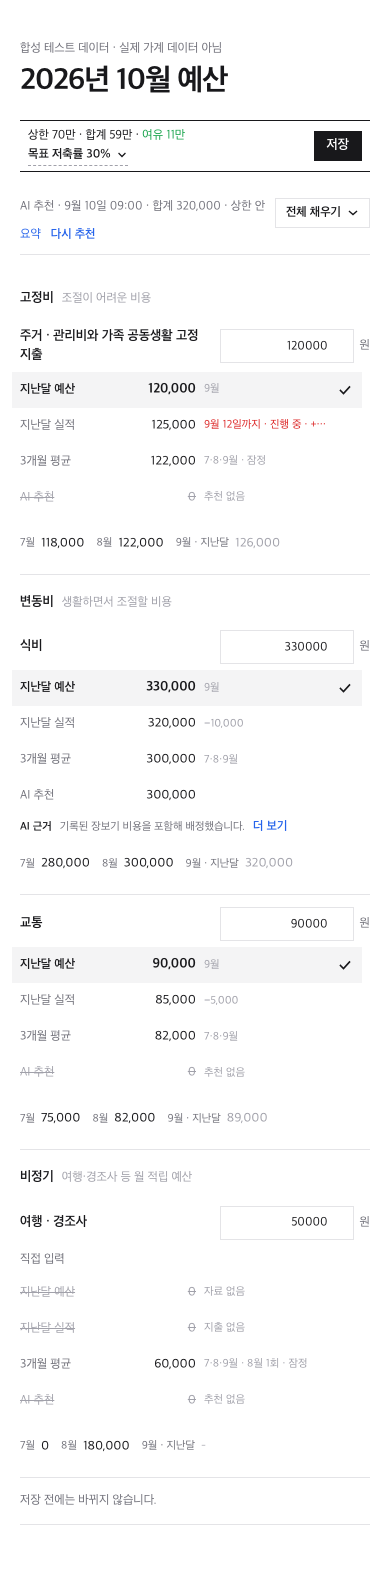
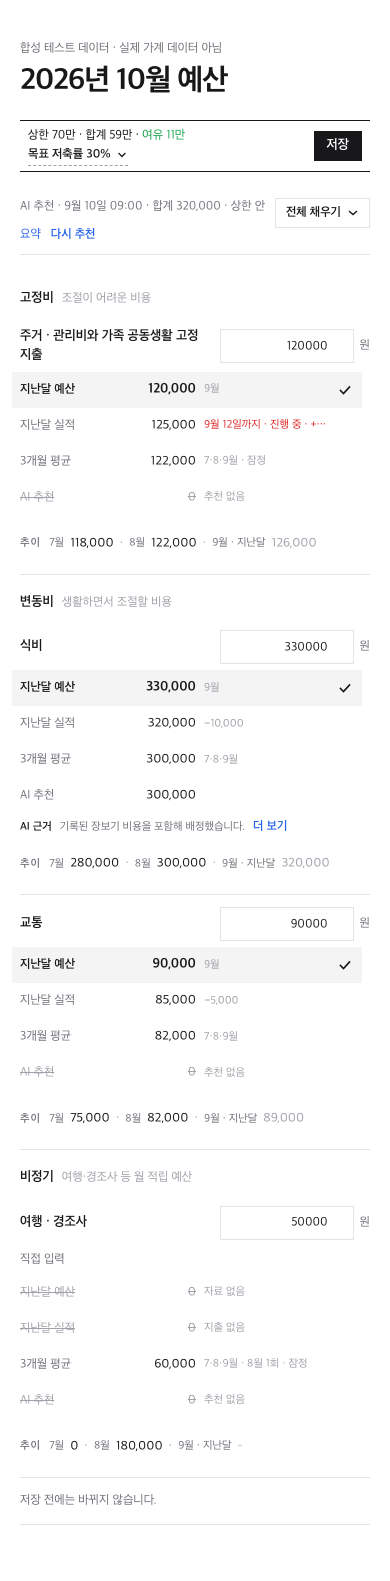
docs(budgets): ratify the stacked trend column
Section 3.1 sketched three 110px cells side by side under the 추이
heading. The implementation stacks the months vertically, which reads
better against the 참고 column's 32px rhythm, and the spec owner has
ratified that. The section now describes the stack, and the sub-rule
about keeping right alignment when fewer than three cells exist is
deleted rather than left describing something the code deliberately does
not do.

Section 6 gains the popover shell module and records that the statistics
screen kept its own request logic, which is the fallback that section
already sanctioned.

The synthetic screenshots are regenerated: they show the month label now
sitting beside its amount on desktop and the 추이 label with its middle
dots on the 390px line.

diff --git a/docs/superpowers/specs/2026-09-14-budget-trend-column-design.md b/docs/superpowers/specs/2026-09-14-budget-trend-column-design.md
@@ -36,23 +36,26 @@
 
 표 열이 셋에서 넷이 된다. 그리드 `200px 200px minmax(0, 1fr) 360px`, 간격 16px. 추이 열은 오른쪽에 고정 폭으로 붙고 참고 열이 남는 폭을 갖는다.
 
+추이 열 안에서 달은 **세로로 쌓는다.** 한 달이 한 줄이고, 줄마다 월 라벨과 금액이 참고 줄과 같은 트랙에 선다.
+
 ```
 항목    예산 (원)   참고                                 추이
-                                                        6월        7월        8월 · 지난달
-식비    600,000     지난달 예산   1,100,000   9월        1,298,653  1,253,700  1,257,831
-        AI 추천…    지난달 실적     612,400   −487,600
+                                                        6월           1,298,653
+식비    600,000     지난달 예산   1,100,000   9월        7월           1,253,700
+        AI 추천…    지난달 실적     612,400   −487,600   8월 · 지난달  1,257,831
                     3개월 평균      656,262   6·7·8월
                     AI 추천         650,000
                     AI 근거 …
 ```
 
 - **열 머리** `추이`. 아래 faint 캡션 `최근 3개월 실제 지출 · 칸에 올리면 거래 목록`.
-- **칸 머리** 월 이름. 그 달이 `previousActual.month`와 같으면 `8월 · 지난달`. 마감 전이라는 사실은 칸 머리에 쓰지 않고 아래 칸의 faint 색으로만 말한다. 칸 폭이 110px이라 꼬리표를 둘 붙이면 잘린다.
-- **칸** 그 달 그 대분류의 실제 지출, 우측 정렬, `tabular-nums`. 높이 32px로 참고 줄과 같은 리듬.
+- **칸 머리** 월 이름. 그 달이 `previousActual.month`와 같으면 `8월 · 지난달`. 마감 전이라는 사실은 칸 머리에 쓰지 않고 금액의 faint 색으로만 말한다. 라벨 트랙이 110px이라 꼬리표를 둘 붙이면 잘린다.
+- **칸** 라벨 110px, 금액 110px 우측 정렬에 `tabular-nums`, 나머지는 빈 트랙이다. `.plan-reference__option`과 같은 트랙이라 두 열의 라벨과 숫자가 같은 자리에서 만난다. 높이 32px로 참고 줄과 같은 리듬.
 - **칸 색** 마감된 달은 잉크, 마감 전인 달은 faint. 통계의 `isProvisional` 규칙과 같다.
 - **빈 값** 거래 기록이 없는 달은 애초에 `average3.months`에서 빠지므로 칸 자체가 없다. 그 대분류에만 지출이 없는 달은 마감 월이면 `0`, 마감 전이면 `–`.
 - 칸이 하나도 없으면(새 가구) 추이 열에 `기록 없음`을 faint로 한 번만 쓴다.
-- 칸 개수가 3보다 적으면 왼쪽을 비우고 오른쪽 정렬을 유지한다. 칸 자리를 `—`로 채우지 않는다.
+
+> 2026-09-14 수정. 처음 안은 110px 칸 셋을 가로로 놓는 것이었다. 구현된 세로 쌓기가 참고 열의 32px 리듬에 더 맞아 그대로 두기로 했다. 그래서 "칸 개수가 3보다 적으면 왼쪽을 비우고 오른쪽 정렬을 유지한다"는 규칙은 뜻이 없어져 지웠다.
 
 칸은 `<button type="button">`이다. 선택 상태가 없고 `aria-pressed`도 없다. `aria-label`은 `식비 6월 1,298,653원, 거래 목록 보기`.
 
@@ -154,11 +157,12 @@ type BudgetPlanRow = {
 | 파일 | 역할 |
 |---|---|
 | `src/features/analytics/cell-transactions.ts` (새) | `useCellTransactions()` 훅. 요청·캐시·취소·지연·409를 담당한다. 밖으로는 `open(params, delay)`, `close()`, `state`만 준다 |
-| `src/features/analytics/cell-transaction-tooltip.tsx` (새) | 팝오버 본문. `{ major, sub, month, data, ledgerHref }`를 받아 어두운 카드를 그린다. 위치 잡기와 포털은 호출자가 한다 |
-| `src/features/analytics/stats-monthly-section.tsx` (수정) | 위 둘을 쓰도록 바꾼다. 앵커·포커스 스크롤·요약 툴팁·합계 제외는 이 파일에 남는다 |
+| `src/features/analytics/cell-transaction-tooltip.tsx` (새) | 팝오버 본문. `{ major, sub, month, data, ledgerHref }`를 받아 어두운 카드를 그린다 |
+| `src/features/analytics/cell-transaction-popover.tsx` (새) | 팝오버 껍데기. 포털, 재보기 뒤 배치(아래로 넘치면 앵커 위로 뒤집기), 숨김 유예와 히트 테스트, 스크롤·리사이즈 해제, `aria-describedby`에 쓸 `id`를 맡는다. 표 하나가 요청 훅 하나와 껍데기 하나를 같이 쓰도록 `CellPopoverContext`도 여기 있다 |
+| `src/features/analytics/stats-monthly-section.tsx` | 본문만 공용을 쓴다. 요청·앵커·포커스 스크롤·요약 툴팁·합계 제외는 아래 대안대로 이 파일에 남았다 |
 | `src/features/budgets/plan-trend.tsx` (새) | 추이 칸들과 팝오버. 데스크톱 열과 모바일 한 줄을 같은 컴포넌트가 그린다 |
 | `src/features/budgets/plan-item.tsx` (수정) | 추이를 붙인다 |
-| `src/features/budgets/plan-list.tsx` (수정) | 열 머리와 그리드 폭 |
+| `src/features/budgets/plan-list.tsx` (수정) | 열 머리와 그리드 폭. 표 하나의 `CellPopoverContext`를 걸고 409 알림 줄을 표 위에 그린다 |
 | `src/features/budgets/plan-sources.ts` (수정) | `trend` 필드 |
 | `src/features/budgets/plan-calculations.ts` (수정) | `buildTrend` |
 | `src/features/analytics/category-detail.ts` (수정) | `sub` 선택 처리 |
